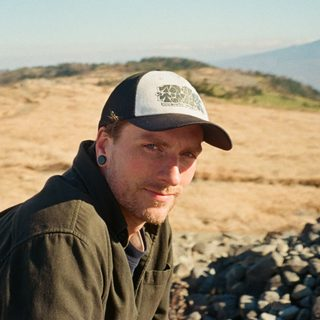
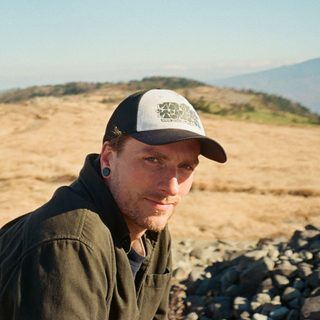
Headshot: slightly wider crop; location to Detroit, MI

diff --git a/index.html b/index.html
@@ -44,7 +44,7 @@ header img{width:96px;height:96px;border-radius:4px}
 <header>
 <div>
 <h1>Oliver Hill</h1>
-<p class="tag contact"><span class="email">oliver@r053.org</span> <button type="button" class="copy-email" aria-label="Copy email address" title="Copy"><svg viewBox="0 0 256 256" fill="currentColor" aria-hidden="true"><path d="M216,34H88a6,6,0,0,0-6,6V82H40a6,6,0,0,0-6,6V216a6,6,0,0,0,6,6H168a6,6,0,0,0,6-6V174h42a6,6,0,0,0,6-6V40A6,6,0,0,0,216,34ZM162,210H46V94H162Zm48-48H174V88a6,6,0,0,0-6-6H94V46H210Z"></path></svg></button><br>Detroit, MI, USA</p>
+<p class="tag contact"><span class="email">oliver@r053.org</span> <button type="button" class="copy-email" aria-label="Copy email address" title="Copy"><svg viewBox="0 0 256 256" fill="currentColor" aria-hidden="true"><path d="M216,34H88a6,6,0,0,0-6,6V82H40a6,6,0,0,0-6,6V216a6,6,0,0,0,6,6H168a6,6,0,0,0,6-6V174h42a6,6,0,0,0,6-6V40A6,6,0,0,0,216,34ZM162,210H46V94H162Zm48-48H174V88a6,6,0,0,0-6-6H94V46H210Z"></path></svg></button><br>Detroit, MI</p>
 </div>
 <picture><source srcset="assets/headshot.webp" type="image/webp"><img src="assets/headshot.jpg" alt="Oliver Hill" width="160" height="160"></picture>
 </header>
